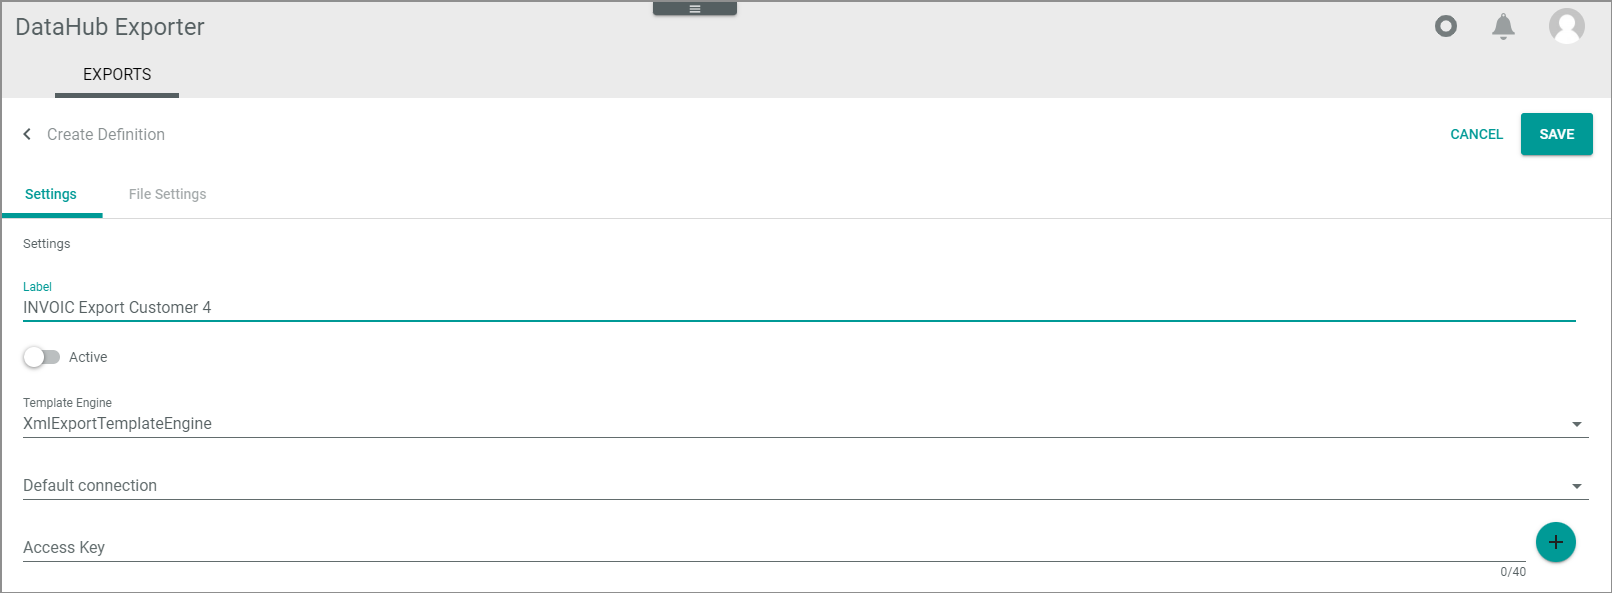
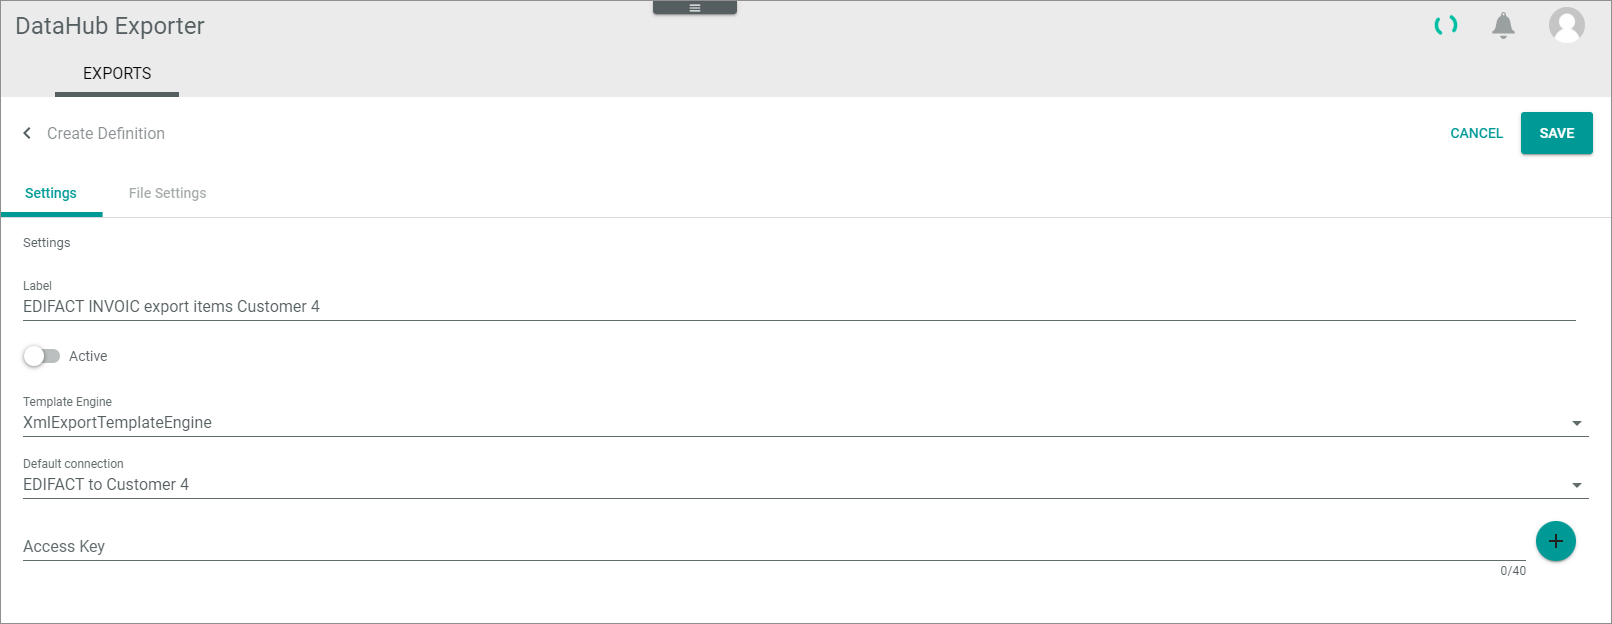
ACD-947
review

diff --git a/EDI/Operation/01_ManageDefinitions.md b/EDI/Operation/01_ManageDefinitions.md
@@ -2,22 +2,28 @@
 
 In Actindo, the definition of the EDIFACT export messages specifies the following:
 - Basic settings with template engine and connection to be used
-- Message structure with predefined data   
-- Data mapping   
+- File settings with the message structure and related attributes   
+- Data sources with attribute mappings  
 - Mapping settings
 
 Each EDIFACT export message requires two definitions in the *DataHub Exporter* module for each business partner and EDIFACT message:
 - Definition of the message header   
-    Figuratively speaking, the message header is the envelope, with which the message is sent. It contains general data such as receiver &frasl; sender information and dates.
+    Figuratively speaking, the message header is the envelope, with which the message is sent. It contains general data such as receiver/sender information and dates.
 - Definition of the line items  
-    The line item section contain a list of single positions of the message, such as the required information for each product that is part of an invoice. It is necessary to have a specific definition for the line items because they require another data source than the message header. 
-    
-First you create a basic definition setting. After you have added the file settings, the data source, and the mapping settings, you can preview and activate the definition.
+    The line item section contains a list of single positions of the message, such as required information for each product that is part of an invoice. It is necessary to have a specific definition for the line items because they require other data sources than the message header. 
+
+Managing of definitions follows the following sequence:   
+1. You create basic definition settings, see [Create basic definition settings](#create-basic-definition-settings).   
+2. You prepare the definition of file settings to make this task easier, see [Prepare definition of file settings](#prepare-definition-of-file-settings).
+3. After you have added a file setting, you can preview a message, see [Preview definition](#preview-definition).
+4. If desired, you can add an attribute mapping after finishing one file setting section, or you do it after finishing the whole EDIFACT message definition. 
+5. If desired, you activate the definition, see.[Activate definition](#activate-definition).
+6. If desired, you can deactivate or delete a definition, see [Deactivate definition](#deactivate-definition) and [Delete definition](#delete-definition).
 
 
 ## Create basic definition settings 
 
-Define basic data for the export definition. You must define a definition setting for the header as well as for the line items of a message.
+Define basic data for the export definition. You must define a definition setting for both the header and the line items of a message.
 
 
 #### Prerequisites
@@ -36,7 +42,7 @@ Define basic data for the export definition. You must define a definition settin
     ![Create definition](../../Assets/Screenshots/EDI/Operation/ExportDefinitionCreate.png "[Create definition]")
 
 2. Enter a label for the definition. It might be useful, to choose a name that contains the following:      
-    - The information that it is an EDIFACT message. Keep in mind that the labels are visible in the *ETL attribute set mappings* of the *DataHub* module later. So it might be useful to distinguish these attribute set mappings from the others by prefixing them with "EDIFACT".   
+    - The information that it is an EDIFACT message. Note that the labels are visible in the *ETL attribute set mappings* of the *DataHub* module later. So it might be useful to distinguish these attribute set mappings from others by prefixing them with "EDIFACT".   
     - The information, if it is the header or the line items of the message.   
     - The message type (for example, INVOIC)   
     - The direction (Export)   
@@ -64,7 +70,9 @@ Define basic data for the export definition. You must define a definition settin
 7. Click the *Message type* drop-down list and select the message type which you want to set up, for example INVOIC.
 
 8. Click the [SAVE] button.   
-    The *Submitting data* screen is displayed. After that, the *Exporter definitions* view is displayed again, the newly created definition is added. 
+    - The *Submitting data* screen is displayed. After that, the *Exporter definitions* view is displayed again, the newly created definition is added. 
+    - An attribute set has been created automatically and has been added to the attribute sets of the *DataHub* module. 
+    - If you now open the definition again for editing, both the *Data Sources* tab and the *Mapping settings* tab is displayed. 
 
 9. Repeat the procedure to create a definition setting for the line items. 
 
@@ -92,8 +100,6 @@ Edit basic data for the export definition. You can edit a definition setting for
 
 2. Edit the data you want to change.
 
-3. If desired, click the *File Settings* tab and change the *Release* or the *Message type* of the EDIFACT message structure.
-
 3. Click the [SAVE] button.   
     The *Submitting data* screen is displayed. After that, the *Exporter definitions* view is displayed again. 
 
@@ -103,7 +109,7 @@ Edit basic data for the export definition. You can edit a definition setting for
 
 To make your EDIFACT file settings specifications easier, it is recommended to do the following:
 - Create the data source.   
-    This is recommended so that you can better organize the task to do the file settings and the data mapping. If you create the data source before you start with the file settings task, you can check in between whether variable strings to be automatically determined has been added to the list of attributes that are to be mapped later. In addition, you are than able to prepare the mapping directly after you have specified a variable string. For this purpose, create the related data source(s) to be prepared. For detailed information, see [Create data source](./04_ManageDataSources.md#create-data-source).
+    This is recommended so that you can better organize the task to do the file settings and the data mapping. If you create the data source before you start with the file settings task, you can check in between whether variable strings to be automatically determined has been added to the list of attributes that are to be mapped later. In addition, you are than able to prepare the mapping directly after you have specified a variable string. For detailed information, see [Create data source](./04_ManageDataSources.md#create-data-source).
 - Define the mapping settings.   
     This is recommended so that the necessary settings for the attribute mappings are available. For detailed information, see [Define mapping settings](./05_MappingSettings.md#define-mapping-settings).
 
@@ -111,7 +117,7 @@ To make your EDIFACT file settings specifications easier, it is recommended to d
 
 ## Preview definition
 
-After you have configured the entire definition including the file settings, you can preview the message that will be sent to the business partner. You can use this function to send it to your business partner and let him/her check whether the message is correct.
+After you have configured the entire definition including the file settings, you can preview the message that will be sent to the business partner. You can use this function both to verify your settings in between and to send it to your business partner and let him/her check whether the message is correct.
 
 #### Prerequisites
 - At least one connection has been created, see [Create connection](../Integration/01_ManageConnections.md#create-connection).

diff --git a/EDI/Operation/02_ManageHeaderFileSett.md b/EDI/Operation/02_ManageHeaderFileSett.md
@@ -2,13 +2,13 @@
 
 
 The following procedures show by using an example how to specify the fields required by your business partner. As example the D07A INVOIC message is used.
->[INFO] The following procedures show by using examples how to specify specific header segments of the EDIFACT message. Follow the guidelines of your business partner when specifying the EDIFACT message! 
+>[INFO] The following procedures show by using examples how to specify specific header segments of the EDIFACT message. Follow the guidelines of your business partner when specifying the EDIFACT message. 
 
 ## Get header file segments
 
 Get the header file segments of an EDIFACT message in order to be able to fill them.  
 
-You can add constant values as well as strings that are to be determined via attribute mapping. Example: The document number is a variable value that must differ for each message. 
+You can add constant values as well as strings that are to be determined via attribute mapping. For example, the document number is a variable value that must differ for each message. 
 
 > [INFO] The UNA, UNB and UNH segments are generated automatically, for this reason, the definition starts with the S_BGM segment.
 
@@ -78,8 +78,7 @@ Start specifying the header file segments by filling out the single elements of 
 4. Click the ![Set constant value](../../Assets/Icons/Edit04.png "[Set constant value]") button to the right of the *D_1001* row.  
     The *Set text value* window is displayed.
 
-    ![Set text value](../../Assets/Screenshots/EDI/Operation/ExportDefEditTextValue.png "[Edit text value]")
-
+    ![Set text value](../../Assets/Screenshots/EDI/Operation/ExportDefEditTextValue.png "[Set text value]")
 
 5. Enter the required document name code in the *Text value* field.
 
@@ -166,7 +165,7 @@ Each invoice can have a lot of different dates, for example the invoice date, th
     The *D_2380* field is marked for a later data mapping. 
 
 6. Specify the *D_2379 (Date or time or period format code)* field. In most cases, a constant value is required here. To do this, click the ![Set constant value](../../Assets/Icons/Edit04.png "[Set constant value]") (Set constant value) button to the right of the *2005* row.  
-    The *Edit text value* window is displayed. 
+    The *Set text value* window is displayed. 
 
 7. Enter the text value and click the [SAVE] button.   
     This *S_DTM* segment has been finished. 
@@ -204,20 +203,20 @@ Specify message free text, with which you can inform your business partner on in
     ![S_FTX segment](../../Assets/Screenshots/EDI/Operation/ExportDefMessDefFTXSegment.png "[S_FTX segment]")
 
 2.  Specify the *D_4451 (Code qualifying the subject of the text)* field. In most cases, a constant value is required here. To do this, click the ![Set constant value](../../Assets/Icons/Edit04.png "[Set constant value]") (Set constant value) button to the right of the *D_4451* row.  
-    The *Edit text value* window is displayed. 
+    The *Set text value* window is displayed. 
 
-    ![Edit text value](../../Assets/Screenshots/EDI/Operation/ExportDefEditTextValue.png "[Edit text value]")
+    ![Set text value](../../Assets/Screenshots/EDI/Operation/ExportDefEditTextValue.png "[Set text value]")
  
 3. Enter the text code and click the [SAVE] button. 
 
 4. Expand the *C_C108 (Free text; one to five lines)* segment by clicking the ![Collapsed](../../Assets/Icons/NodeCollapsed.png "[Collapsed]") (Collapsed) button at the *C_C108* segment.
 
 5. Enter a free text in the *C_4440* line. To do this, click the ![Set constant value](../../Assets/Icons/Edit04.png "[Set constant value]") (Set constant value) button to the right of the *C_4440* row.  
-    The *Edit text value* window is displayed.
+    The *Set text value* window is displayed.
 
-6. Enter the free text, for example "Please note our changed bank details" and click the [SAVE] button. You can write up to five lines.
+6. Enter the free text, for example "Please note our changed bank details", and click the [SAVE] button. You can enter up to five lines.
 
-7. Specify the language used in the *D_3453 (Code specifying the language name)* line. To do this, click the ![Set constant value](../../Assets/Icons/Edit04.png "[Set constant value]") (Set constant value) button to the right of the *D_3453* row and specify the language code in the *Edit text value* window.  
+7. Specify the language used in the *D_3453 (Code specifying the language name)* line. To do this, click the ![Set constant value](../../Assets/Icons/Edit04.png "[Set constant value]") (Set constant value) button to the right of the *D_3453* row and specify the language code in the *Set text value* window.  
     
 8. Collapse the *S_FTX* segment by clicking the ![Expanded ](../../Assets/Icons/NodeExpanded.png "[Expanded]") (Expanded) button to the right of the *S_FTX* segment row.   
     The segment is collapsed.
@@ -227,7 +226,7 @@ Specify message free text, with which you can inform your business partner on in
 
     ![Additional S_FTX segment](../../Assets/Screenshots/EDI/Operation/ExportDefMessDefFTXAdditionalSegment.png "[Additional S_FTX segment]")
 
-10. Now continue specifying the header file segments until you have specified all fields that your business partner require.
+10. Continue specifying the header file segments until you have specified all fields that your business partner require.
 
 
 

diff --git a/EDI/Operation/03_ManageLineItemsFileStt.md b/EDI/Operation/03_ManageLineItemsFileStt.md
@@ -1,7 +1,9 @@
 # Specify line item file settings
 
 The following procedures show by using an example how to specify the line item fields required by your business partner. As example the D07A INVOIC message is used.
->[INFO] The following procedures show by using examples how to specify specific line item of the EDIFACT message. Follow the guidelines of your business partner when specifying the EDIFACT message! 
+>[INFO] The following procedures show by using examples how to specify specific line item of the EDIFACT message. Follow the guidelines of your business partner when specifying the EDIFACT message!   
+
+For detailed information on examples how to define constant text values, string attributes, dates, and free texts, see [Specify header file settings](./02_ManageHeaderFileSett.md).
 
 ## Get line item segments
 
@@ -68,7 +70,7 @@ Start specifying the line item segments by filling out the single elements of th
 
     ![S_LIN segment](../../Assets/Screenshots/EDI/Operation/ExportDefLIN.png "[S_LIN segment]")
 
-2. Check the specification for the fields that are required to be filled. In most cases, you must fill the line item identifier  in the *D_1082* row (to identify a line item). This is a numerical value that must be unique. For this reason, it is to be determined dynamically by a data source mapping. 
+2. Check the specification for the fields that are required to be filled. In most cases, you must fill the line item identifier in the *D_1082* row (to identify a line item). This is a numerical value that must be unique. For this reason, it is to be determined dynamically by a data source mapping. 
 
 3. Click the ![Add string attribute](../../Assets/Icons/Plus03.png "[Add string attribute]") (Add string attribute) button to the right of the *D_1082* row.   
      - To the right of the *D_1082* row only the ![Delete attribute](../../Assets/Icons/Trash10.png "[Delete attribute]")(Delete attribute) button is available now, with which you can remove the data, if required. The field name and description is no longer displayed in italics.  
@@ -78,7 +80,7 @@ Start specifying the line item segments by filling out the single elements of th
     ![D_1082 row](../../Assets/Screenshots/EDI/Operation/ExportDefLIN1082.png "[D_1082 row]")
 
  4. Click the [SAVE] button to save the message structure.   
-    The *Exporter definitions* list is displayed. The  defined string attribute is added now to the attribute mapping function in the *Data source* tab.
+    The *Exporter definitions* list is displayed. The defined string attribute is added now to the attribute mapping function in the *Data source* tab.
 
 5. If desired, check whether the string attribute has been really marked for a later data mapping. For detailed information, see [Map attributes](./04_ManageDataSources.md#map-attributes).   
     The EDI Export LIN/1082 *Destination attribute* has been added to the attributes to be mapped later or directly afterwards, if desired.

diff --git a/EDI/Operation/04_ManageDataSources.md b/EDI/Operation/04_ManageDataSources.md
@@ -10,7 +10,7 @@ Define the data source from which you want to retrieve the data with which you w
 #### Prerequisites
 
 At least one definition setting has been created, see [Create basic definition settings](#create-basic-definition-settings).
->[INFO] The *Data source* tab is visible only if you have created a basic definition setting. 
+>[INFO] The *Data source* tab is visible only if you have created and saved a basic definition setting. 
 
 #### Procedure
 
@@ -34,7 +34,7 @@ At least one definition setting has been created, see [Create basic definition s
 4. Select the data source in the *Entity type* drop-down list.   
     - If desired, use the *RetailSuite Business document* entity type if you currently define the data source for a header file.    
     You typically use this entity type for the header data, if you want to transfer data with its origin from the *Actindo Core1 Platform*.
-    - If desired, use the *Business document postition* entity type if you currently define the data source for a line item file.   
+    - If desired, use the *Business document postition* entity type if you currently define the data source for a line item definition.   
     You typically use this entity type for the line item data, if you want to transfer data with its origin from the *Actindo Core1 Platform*.  
     - If desired, use any other data source that provides you with data needed for the transfer.   
     For example, you want to send an EDIFACT message with invoice data from SAP. In this case select the related SAP data source with which you can access the data needed for the header &frasl; line item file.   
@@ -58,7 +58,7 @@ At least one definition setting has been created, see [Create basic definition s
 
 8. If desired, specify a limit <!---to be continued?-->
 
-9. Click the [FINALIZE] button at the bottom right corner to save the data source.
+9. Click the [FINALIZE] button in the bottom right corner to save the data source.
 
 ## Map attributes
 
